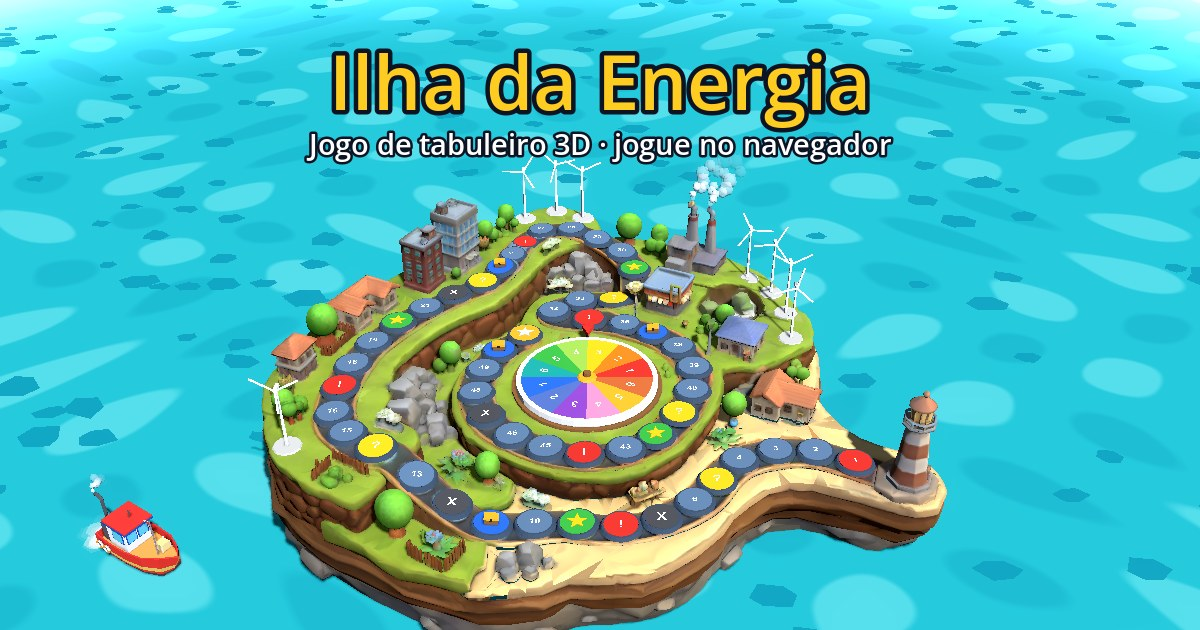
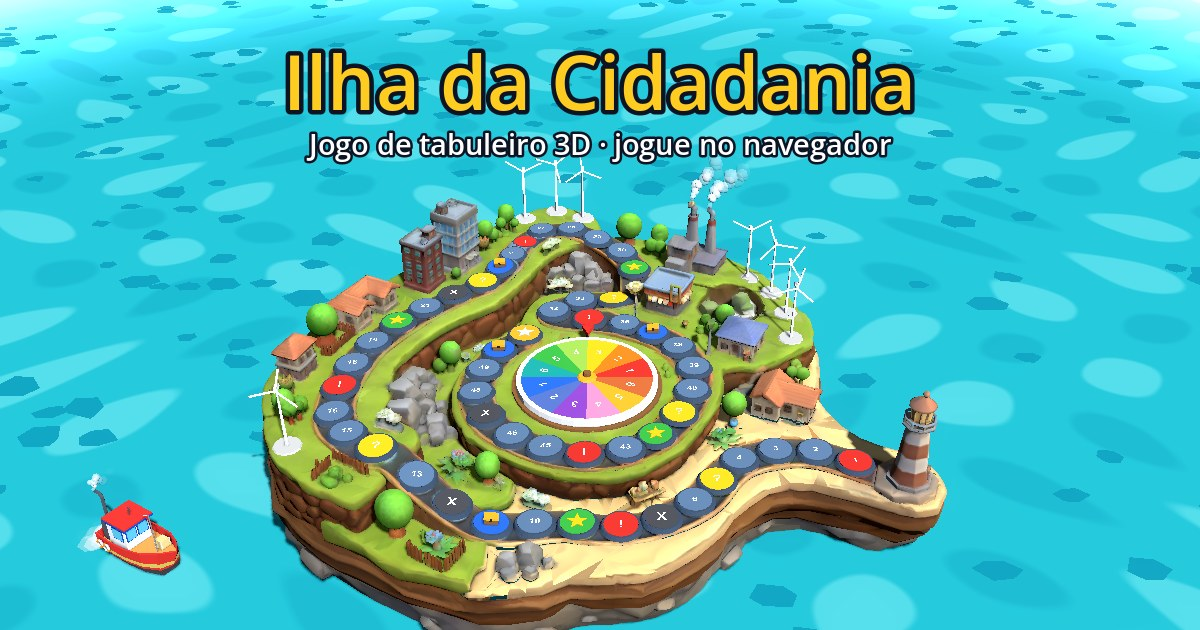
Muda o título para Ilha da Cidadania

diff --git a/index.html b/index.html
@@ -94,8 +94,8 @@ body {
 <link rel="apple-touch-icon" href="index.apple-touch-icon.png"/>
 <meta name="description" content="Jogo de tabuleiro 3D numa ilha: gire a roleta, encare desafios e chegue ao final. Jogue no navegador ou no celular, de 1 a 4 jogadores.">
 <meta property="og:type" content="website">
-<meta property="og:site_name" content="Ilha da Energia">
-<meta property="og:title" content="Ilha da Energia">
+<meta property="og:site_name" content="Ilha da Cidadania">
+<meta property="og:title" content="Ilha da Cidadania">
 <meta property="og:description" content="Jogo de tabuleiro 3D numa ilha: gire a roleta, encare desafios e chegue ao final. Jogue no navegador ou no celular, de 1 a 4 jogadores.">
 <meta property="og:url" content="https://jaoantunes.github.io/ilha-da-energia/">
 <meta property="og:image" content="https://jaoantunes.github.io/ilha-da-energia/thumb.jpg">
@@ -106,10 +106,10 @@ body {
 <meta property="og:image:alt" content="A ilha do jogo com o tabuleiro, a roleta colorida, o farol e o barco">
 <meta property="og:locale" content="pt_BR">
 <meta name="twitter:card" content="summary_large_image">
-<meta name="twitter:title" content="Ilha da Energia">
+<meta name="twitter:title" content="Ilha da Cidadania">
 <meta name="twitter:description" content="Jogo de tabuleiro 3D numa ilha: gire a roleta, encare desafios e chegue ao final. Jogue no navegador ou no celular, de 1 a 4 jogadores.">
 <meta name="twitter:image" content="https://jaoantunes.github.io/ilha-da-energia/thumb.jpg">
-<script>document.title = "Ilha da Energia";</script>
+<script>document.title = "Ilha da Cidadania";</script>
 	</head>
 	<body>
 		<canvas id="canvas">

diff --git a/README.md b/README.md
@@ -1,4 +1,4 @@
-# Ilha da Energia
+# Ilha da Cidadania
 
 Jogo de tabuleiro 3D low-poly feito em Godot 4.7. Jogue em https://jaoantunes.github.io/ilha-da-energia/
 
